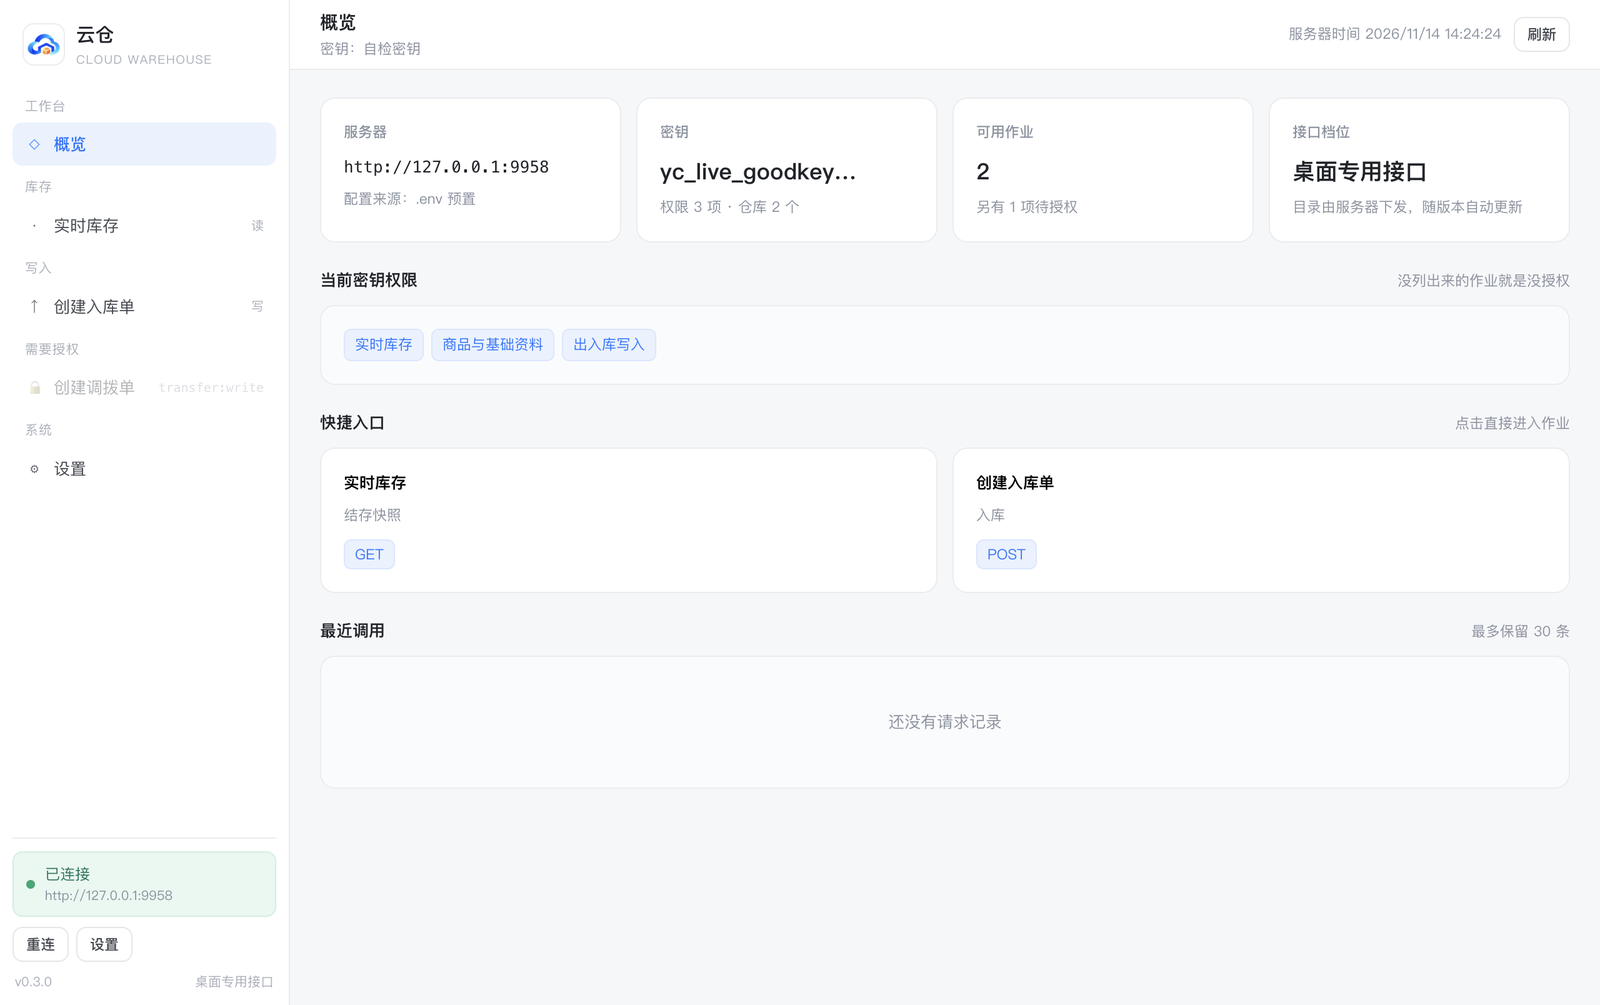
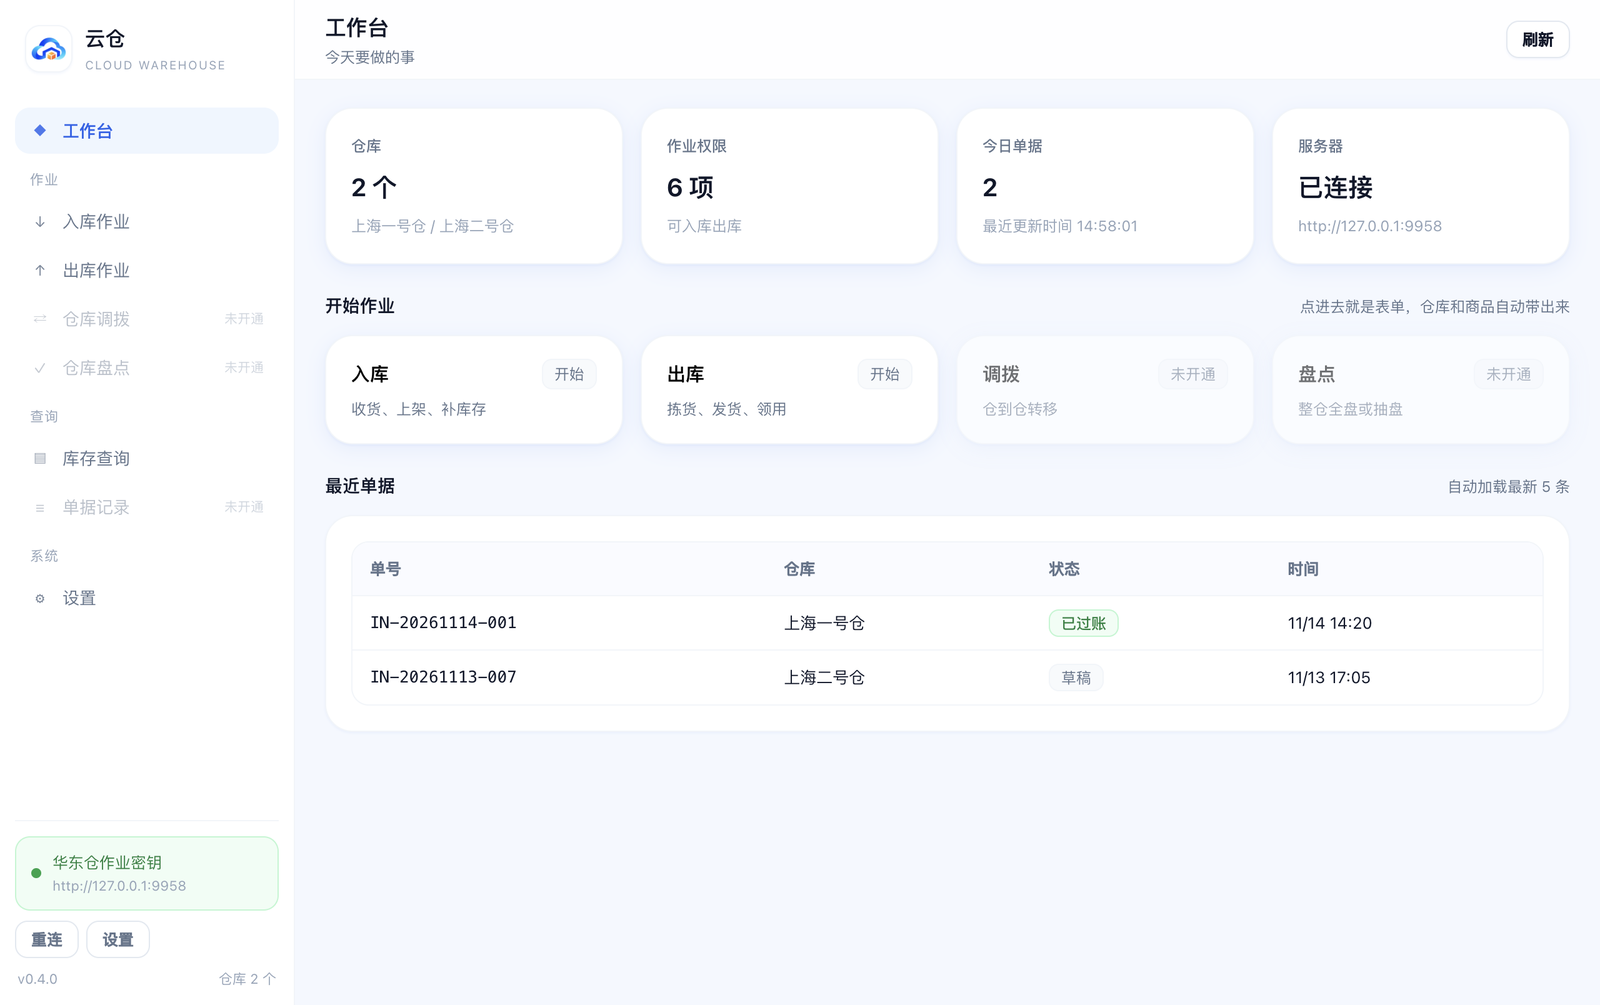
1

diff --git a/desktop.html b/desktop.html
@@ -5,7 +5,7 @@
   <meta name="viewport" content="width=device-width, initial-scale=1.0" />
 
   <title>桌面客户端 · 云仓 YUNCANG</title>
-  <meta name="description" content="云仓桌面客户端（Windows）：首次打开填服务器地址与 API 密钥，之后直接进入作业界面；作业范围由密钥权限决定。内置密钥失效引导、设置页换地址换密钥、CSV 导出与彻底卸载。v0.3.0 安装包 77.6 MB，无需额外运行环境。" />
+  <meta name="description" content="云仓桌面客户端（Windows）：装好填一次服务器地址与密钥，之后打开就是工作台——入库、出库、调拨、盘点、库存查询、单据记录，跟 Web 端同一套蓝白界面。v0.4.0 安装包 77.7 MB，自带运行环境。" />
   <meta name="keywords" content="云仓客户端,桌面客户端,Windows,库存管理,WMS,API 密钥,离线作业,云仓下载" />
   <meta name="author" content="小岳 (xiao yue)" />
   <link rel="canonical" href="https://yuejiaxinabc.github.io/cloudwarehouse-index/desktop.html" />
@@ -33,8 +33,9 @@
       <nav class="main-nav" aria-label="主导航">
         <a href="index.html">首页</a>
         <a href="features.html">产品功能</a>
-        <a href="install.html">部署安装</a>
         <a href="desktop.html" class="active" aria-current="page">桌面客户端</a>
+        <a href="install.html">部署安装</a>
+        <a href="pricing.html">部署服务</a>
         <a href="releases.html">版本发布</a>
         <a href="changelog.html">更新日志</a>
         <a href="security.html">安全日志</a>
@@ -59,8 +60,9 @@
       <ul>
         <li><a href="index.html">首页</a></li>
         <li><a href="features.html">产品功能</a></li>
-        <li><a href="install.html">部署安装</a></li>
         <li><a href="desktop.html" class="active" aria-current="page">桌面客户端</a></li>
+        <li><a href="install.html">部署安装</a></li>
+        <li><a href="pricing.html">部署服务</a></li>
         <li><a href="releases.html">版本发布</a></li>
         <li><a href="changelog.html">更新日志</a></li>
         <li><a href="security.html">安全日志</a></li>
@@ -77,7 +79,7 @@
     <section class="hero">
       <div class="container hero-grid">
         <div>
-          <span class="hero-badge"><span class="dot"></span>Windows 桌面端 · v0.3.0</span>
+          <span class="hero-badge"><span class="dot"></span>Windows 桌面端 · v0.4.0</span>
           <h1 class="hero-title">把云仓<br />装进桌面</h1>
           <p class="hero-lead">
             第一次打开填 <strong>服务器地址</strong> 与 <strong>API 密钥</strong>，之后双击图标直接进作业界面。
@@ -85,13 +87,13 @@
             各看各的。
           </p>
           <div class="hero-cta">
-            <a class="btn btn-primary btn-lg" href="https://updata-1307293667.cos.ap-beijing.myqcloud.com/desktop/setup/yuncang-0.3.0-x64.exe">
+            <a class="btn btn-primary btn-lg" href="https://updata-1307293667.cos.ap-beijing.myqcloud.com/desktop/setup/yuncang-0.4.0-x64.exe">
               下载 Windows 安装包
             </a>
             <a class="btn btn-ghost btn-lg" href="#features">看看能做什么</a>
           </div>
           <p class="hero-note">
-            77.6 MB · Windows 10 1809 及以上（x64）· 自带运行环境，不用装 Node / 数据库 / 浏览器插件
+            77.7 MB · Windows 10 1809 及以上（x64）· 自带运行环境，不用装 Node / 数据库 / 浏览器插件
           </p>
         </div>
 
@@ -108,15 +110,15 @@
       <div class="container">
         <div class="section-head center">
           <h2>界面</h2>
-          <p class="desc">蓝白配色，跟 Web 端同一套观感；左栏按你拿到的权限生成作业菜单，没有权限的灰着并注明缺哪一项。</p>
+          <p class="desc">蓝白配色，跟 Web 端同一套观感；左栏按你拿到的权限生成作业菜单，没开通的显示「未开通」，不会让你点了才报错。</p>
         </div>
 
         <div class="shot-grid">
           <figure class="shot-card">
             <div class="shot-frame">
-              <img src="assets/img/desktop/setup.png" alt="首次启动配置服务器地址与密钥" loading="lazy" />
+              <img src="assets/img/desktop/inbound.png" alt="入库作业：仓库和商品自动带出" loading="lazy" />
             </div>
-            <figcaption><strong>第一次打开</strong>填地址与密钥，测试通过后写进本机，以后不再问。</figcaption>
+            <figcaption><strong>入库作业</strong>仓库、类型自动带出，商品边打边搜，勾「直接入账」即过账。</figcaption>
           </figure>
           <figure class="shot-card">
             <div class="shot-frame">
@@ -133,29 +135,29 @@
       <div class="container">
         <div class="section-head">
           <h2>桌面端做什么</h2>
-          <p class="desc">它不是把网页塞进一个壳子：作业目录由服务端下发，参数表单按接口定义生成，写单据自带幂等键。</p>
+          <p class="desc">跟 Web 端同一套蓝白界面：进页面就是业务表单，仓库、商品、可用量自动带出来，不用记任何接口。</p>
         </div>
 
         <div class="grid grid-3 feature-grid">
           <div class="card card-hover">
-            <h3>配一次，之后不用管</h3>
-            <p>地址与密钥保存在本机，密钥用 Windows DPAPI（safeStorage）加密，只有当前系统账号能解开；换账号或重装后会提示重新填写，不会静默失败。</p>
+            <h3>打开就能干活</h3>
+            <p>服务器地址与密钥只填一次，用 Windows DPAPI 加密保存；之后双击图标直接进工作台，仓库清单自动加载。</p>
           </div>
           <div class="card card-hover">
-            <h3>作业范围跟着密钥走</h3>
-            <p>密钥带哪些 scope，侧栏就有哪些作业；限于某些仓库的密钥，查询自动收敛，越界写入直接被服务端拒绝。</p>
+            <h3>能做什么由权限决定</h3>
+            <p>入库、出库、调拨、盘点按这把密钥的权限出现；没开通的作业在左栏灰着，不会让你点了才报错。</p>
           </div>
           <div class="card card-hover">
-            <h3>密钥失效会告诉你</h3>
+            <h3>密钥失效会说清楚</h3>
             <p>任何一次请求返回 401，顶部弹「密钥已失效」并自动跳到设置页——地址已经填好，贴一把新密钥保存即恢复。</p>
           </div>
           <div class="card card-hover">
-            <h3>写单据不重复</h3>
-            <p>入库、出库、调拨、盘点自动带 Idempotency-Key，网络抖动重试不会重复建单；同一个 key 换请求体会被服务端拦下。</p>
+            <h3>重试不会重复建单</h3>
+            <p>提交时自带请求幂等标识，网络抖一下重试也不会多建一张单；同一批数据重复提交会被服务端拦下。</p>
           </div>
           <div class="card card-hover">
-            <h3>结果能带走</h3>
-            <p>查询结果直接出表格，可导出 CSV（带 BOM，Excel 打开不乱码），也能展开看原始响应，方便跟后台对数据。</p>
+            <h3>库存随时能查</h3>
+            <p>库存查询按仓库和商品筛，实时看结存 / 锁定 / 可用；单据记录按类型翻页，入库出库调拨盘点都在一处。</p>
           </div>
           <div class="card card-hover">
             <h3>卸载得干净</h3>
@@ -176,10 +178,10 @@
         <div class="dl-panel">
           <div class="dl-panel-head">
             <div>
-              <div class="dl-title">云仓 <span class="dl-ver">v0.3.0</span></div>
-              <div class="dl-meta">Windows x64 · 77.6 MB · 安装包未签名，首次运行若被 SmartScreen 拦下，点「更多信息 → 仍要运行」</div>
+              <div class="dl-title">云仓 <span class="dl-ver">v0.4.0</span></div>
+              <div class="dl-meta">Windows x64 · 77.7 MB · 安装包未签名，首次运行若被 SmartScreen 拦下，点「更多信息 → 仍要运行」</div>
             </div>
-            <a class="btn btn-primary" href="https://updata-1307293667.cos.ap-beijing.myqcloud.com/desktop/setup/yuncang-0.3.0-x64.exe">下载</a>
+            <a class="btn btn-primary" href="https://updata-1307293667.cos.ap-beijing.myqcloud.com/desktop/setup/yuncang-0.4.0-x64.exe">下载</a>
           </div>
           <ol class="steps">
             <li><strong>下载并双击</strong> <span>选安装目录（默认装到当前用户，不需要管理员权限）</span></li>
@@ -226,11 +228,11 @@
         <div class="faq">
           <details>
             <summary>提示「密钥已失效」怎么办？</summary>
-            <p>说明服务端返回了 401：密钥被停用、过期、来源 IP 不在白名单，或所属账号被禁用。打开「设置」，地址保持不变，贴一把新密钥点「保存并连接」即可，不用重装、不用重启。</p>
+            <p>说明服务端拒绝了这把密钥：可能被停用、过期、来源 IP 不在白名单，或所属账号被禁用。打开「设置」，地址保持不变，贴一把新密钥点「保存并连接」即可，不用重装、不用重启。</p>
           </details>
           <details>
             <summary>菜单里有些作业是灰的</summary>
-            <p>那是没授权的作业，灰着的项上写着缺哪个 scope（例如 <code>transfer:write</code>）。让管理员在后台给这把密钥加对应权限，重连即出现。</p>
+            <p>那是没开通的作业，左栏显示「未开通」。让管理员在云仓后台给这把密钥加上对应权限（例如调拨），重连后就会出现。</p>
           </details>
           <details>
             <summary>连不上内网地址</summary>
@@ -242,7 +244,7 @@
           </details>
           <details>
             <summary>为什么不需要装 Node 或数据库？</summary>
-            <p>客户端本体是 Electron，Chromium 与 Node 运行时都打包在安装包里；它只通过 HTTP 调云仓的开放接口，本机不存业务数据。</p>
+            <p>客户端把 Chromium 与运行时都打包进了安装包，只负责界面与请求；商品、库存、单据全在你的云仓服务器上，本机不存业务数据。</p>
           </details>
         </div>
       </div>
@@ -254,7 +256,7 @@
         <h2>把云仓放到仓库那台电脑上</h2>
         <p class="desc">双击装完就能用，作业范围由你发的密钥决定。</p>
         <div class="hero-cta">
-          <a class="btn btn-primary btn-lg" href="https://updata-1307293667.cos.ap-beijing.myqcloud.com/desktop/setup/yuncang-0.3.0-x64.exe">下载 Windows 安装包</a>
+          <a class="btn btn-primary btn-lg" href="https://updata-1307293667.cos.ap-beijing.myqcloud.com/desktop/setup/yuncang-0.4.0-x64.exe">下载 Windows 安装包</a>
           <a class="btn btn-ghost btn-lg" href="install.html">部署云仓服务端</a>
         </div>
       </div>
@@ -282,6 +284,7 @@
             <li><a href="index.html">首页</a></li>
             <li><a href="features.html">产品功能</a></li>
             <li><a href="desktop.html">桌面客户端</a></li>
+            <li><a href="install.html">部署安装</a></li>
             <li><a href="pricing.html">部署服务</a></li>
             <li><a href="releases.html">版本发布</a></li>
             <li><a href="changelog.html">更新日志</a></li>

diff --git a/index.html b/index.html
@@ -37,8 +37,9 @@
       <nav class="main-nav" aria-label="主导航">
         <a href="index.html" class="active" aria-current="page">首页</a>
         <a href="features.html">产品功能</a>
-        <a href="install.html">部署安装</a>
         <a href="desktop.html">桌面客户端</a>
+        <a href="install.html">部署安装</a>
+        <a href="pricing.html">部署服务</a>
         <a href="releases.html">版本发布</a>
         <a href="changelog.html">更新日志</a>
         <a href="security.html">安全日志</a>
@@ -64,8 +65,9 @@
       <ul>
         <li><a href="index.html" class="active" aria-current="page">首页</a></li>
         <li><a href="features.html">产品功能</a></li>
-        <li><a href="install.html">部署安装</a></li>
         <li><a href="desktop.html">桌面客户端</a></li>
+        <li><a href="install.html">部署安装</a></li>
+        <li><a href="pricing.html">部署服务</a></li>
         <li><a href="releases.html">版本发布</a></li>
         <li><a href="changelog.html">更新日志</a></li>
         <li><a href="security.html">安全日志</a></li>
@@ -554,6 +556,8 @@
           <ul>
             <li><a href="index.html">首页</a></li>
             <li><a href="features.html">产品功能</a></li>
+            <li><a href="desktop.html">桌面客户端</a></li>
+            <li><a href="install.html">部署安装</a></li>
             <li><a href="pricing.html">部署服务</a></li>
             <li><a href="releases.html">版本发布</a></li>
             <li><a href="changelog.html">更新日志</a></li>
@@ -565,8 +569,6 @@
           <h4>项目文档</h4>
           <ul>
             <li><a href="https://yc.yuejiaxin.ln.cn/" target="_blank" rel="noopener">在线演示 ↗</a></li>
-            <li><a href="install.html">部署安装</a></li>
-        <li><a href="desktop.html">桌面客户端</a></li>
             <li><a href="https://github.com/yuejiaxinabc/cloud-warehouse/blob/main/README.md" target="_blank" rel="noopener">README</a></li>
             <li><a href="https://github.com/yuejiaxinabc/cloud-warehouse/blob/main/docs/CHANGELOG.md" target="_blank" rel="noopener">CHANGELOG</a></li>
             <li><a href="https://github.com/yuejiaxinabc/cloud-warehouse/blob/main/docs/SECURITY.md" target="_blank" rel="noopener">SECURITY</a></li>

diff --git a/install.html b/install.html
@@ -27,8 +27,9 @@
       <nav class="main-nav" aria-label="主导航">
         <a href="index.html">首页</a>
         <a href="features.html">产品功能</a>
-        <a href="install.html" class="active" aria-current="page">部署安装</a>
         <a href="desktop.html">桌面客户端</a>
+        <a href="install.html" class="active" aria-current="page">部署安装</a>
+        <a href="pricing.html">部署服务</a>
         <a href="releases.html">版本发布</a>
         <a href="changelog.html">更新日志</a>
         <a href="security.html">安全日志</a>
@@ -53,8 +54,9 @@
       <ul>
         <li><a href="index.html">首页</a></li>
         <li><a href="features.html">产品功能</a></li>
-        <li><a href="install.html">部署安装</a></li>
         <li><a href="desktop.html">桌面客户端</a></li>
+        <li><a href="install.html" class="active" aria-current="page">部署安装</a></li>
+        <li><a href="pricing.html">部署服务</a></li>
         <li><a href="releases.html">版本发布</a></li>
         <li><a href="changelog.html">更新日志</a></li>
         <li><a href="security.html">安全日志</a></li>
@@ -340,6 +342,7 @@
             <li><a href="index.html">首页</a></li>
             <li><a href="features.html">产品功能</a></li>
             <li><a href="desktop.html">桌面客户端</a></li>
+            <li><a href="install.html">部署安装</a></li>
             <li><a href="pricing.html">部署服务</a></li>
             <li><a href="releases.html">版本发布</a></li>
             <li><a href="changelog.html">更新日志</a></li>

diff --git a/changelog.html b/changelog.html
@@ -33,6 +33,7 @@
         <a href="index.html">首页</a>
         <a href="features.html">产品功能</a>
         <a href="desktop.html">桌面客户端</a>
+        <a href="install.html">部署安装</a>
         <a href="pricing.html">部署服务</a>
         <a href="releases.html">版本发布</a>
         <a href="changelog.html" class="active" aria-current="page">更新日志</a>
@@ -59,6 +60,7 @@
         <li><a href="index.html">首页</a></li>
         <li><a href="features.html">产品功能</a></li>
         <li><a href="desktop.html">桌面客户端</a></li>
+        <li><a href="install.html">部署安装</a></li>
         <li><a href="pricing.html">部署服务</a></li>
         <li><a href="releases.html">版本发布</a></li>
         <li><a href="changelog.html" class="active" aria-current="page">更新日志</a></li>
@@ -397,6 +399,7 @@
             <li><a href="index.html">首页</a></li>
             <li><a href="features.html">产品功能</a></li>
             <li><a href="desktop.html">桌面客户端</a></li>
+            <li><a href="install.html">部署安装</a></li>
             <li><a href="pricing.html">部署服务</a></li>
             <li><a href="releases.html">版本发布</a></li>
             <li><a href="changelog.html">更新日志</a></li>

diff --git a/features.html b/features.html
@@ -33,6 +33,7 @@
         <a href="index.html">首页</a>
         <a href="features.html" class="active" aria-current="page">产品功能</a>
         <a href="desktop.html">桌面客户端</a>
+        <a href="install.html">部署安装</a>
         <a href="pricing.html">部署服务</a>
         <a href="releases.html">版本发布</a>
         <a href="changelog.html">更新日志</a>
@@ -59,6 +60,7 @@
         <li><a href="index.html">首页</a></li>
         <li><a href="features.html" class="active" aria-current="page">产品功能</a></li>
         <li><a href="desktop.html">桌面客户端</a></li>
+        <li><a href="install.html">部署安装</a></li>
         <li><a href="pricing.html">部署服务</a></li>
         <li><a href="releases.html">版本发布</a></li>
         <li><a href="changelog.html">更新日志</a></li>
@@ -390,6 +392,7 @@
             <li><a href="index.html">首页</a></li>
             <li><a href="features.html">产品功能</a></li>
             <li><a href="desktop.html">桌面客户端</a></li>
+            <li><a href="install.html">部署安装</a></li>
             <li><a href="pricing.html">部署服务</a></li>
             <li><a href="releases.html">版本发布</a></li>
             <li><a href="changelog.html">更新日志</a></li>

diff --git a/pricing.html b/pricing.html
@@ -33,6 +33,7 @@
         <a href="index.html">首页</a>
         <a href="features.html">产品功能</a>
         <a href="desktop.html">桌面客户端</a>
+        <a href="install.html">部署安装</a>
         <a href="pricing.html" class="active" aria-current="page">部署服务</a>
         <a href="releases.html">版本发布</a>
         <a href="changelog.html">更新日志</a>
@@ -59,6 +60,7 @@
         <li><a href="index.html">首页</a></li>
         <li><a href="features.html">产品功能</a></li>
         <li><a href="desktop.html">桌面客户端</a></li>
+        <li><a href="install.html">部署安装</a></li>
         <li><a href="pricing.html" class="active" aria-current="page">部署服务</a></li>
         <li><a href="releases.html">版本发布</a></li>
         <li><a href="changelog.html">更新日志</a></li>
@@ -261,6 +263,7 @@
             <li><a href="index.html">首页</a></li>
             <li><a href="features.html">产品功能</a></li>
             <li><a href="desktop.html">桌面客户端</a></li>
+            <li><a href="install.html">部署安装</a></li>
             <li><a href="pricing.html">部署服务</a></li>
             <li><a href="releases.html">版本发布</a></li>
             <li><a href="changelog.html">更新日志</a></li>

diff --git a/releases.html b/releases.html
@@ -33,6 +33,7 @@
         <a href="index.html">首页</a>
         <a href="features.html">产品功能</a>
         <a href="desktop.html">桌面客户端</a>
+        <a href="install.html">部署安装</a>
         <a href="pricing.html">部署服务</a>
         <a href="releases.html" class="active" aria-current="page">版本发布</a>
         <a href="changelog.html">更新日志</a>
@@ -59,6 +60,7 @@
         <li><a href="index.html">首页</a></li>
         <li><a href="features.html">产品功能</a></li>
         <li><a href="desktop.html">桌面客户端</a></li>
+        <li><a href="install.html">部署安装</a></li>
         <li><a href="pricing.html">部署服务</a></li>
         <li><a href="releases.html" class="active" aria-current="page">版本发布</a></li>
         <li><a href="changelog.html">更新日志</a></li>
@@ -431,6 +433,7 @@
             <li><a href="index.html">首页</a></li>
             <li><a href="features.html">产品功能</a></li>
             <li><a href="desktop.html">桌面客户端</a></li>
+            <li><a href="install.html">部署安装</a></li>
             <li><a href="pricing.html">部署服务</a></li>
             <li><a href="releases.html">版本发布</a></li>
             <li><a href="changelog.html">更新日志</a></li>

diff --git a/security.html b/security.html
@@ -33,6 +33,7 @@
         <a href="index.html">首页</a>
         <a href="features.html">产品功能</a>
         <a href="desktop.html">桌面客户端</a>
+        <a href="install.html">部署安装</a>
         <a href="pricing.html">部署服务</a>
         <a href="releases.html">版本发布</a>
         <a href="changelog.html">更新日志</a>
@@ -59,6 +60,7 @@
         <li><a href="index.html">首页</a></li>
         <li><a href="features.html">产品功能</a></li>
         <li><a href="desktop.html">桌面客户端</a></li>
+        <li><a href="install.html">部署安装</a></li>
         <li><a href="pricing.html">部署服务</a></li>
         <li><a href="releases.html">版本发布</a></li>
         <li><a href="changelog.html">更新日志</a></li>
@@ -318,6 +320,7 @@
             <li><a href="index.html">首页</a></li>
             <li><a href="features.html">产品功能</a></li>
             <li><a href="desktop.html">桌面客户端</a></li>
+            <li><a href="install.html">部署安装</a></li>
             <li><a href="pricing.html">部署服务</a></li>
             <li><a href="releases.html">版本发布</a></li>
             <li><a href="changelog.html">更新日志</a></li>

diff --git a/404.html b/404.html
@@ -18,10 +18,14 @@
         <span class="brand-name">云仓 <span class="brand-sub">YUNCANG</span></span>
       </a>
       <nav class="main-nav" aria-label="主导航">
-        <a href="index.html">返回首页</a>
+        <a href="index.html">首页</a>
         <a href="features.html">产品功能</a>
         <a href="desktop.html">桌面客户端</a>
+        <a href="install.html">部署安装</a>
         <a href="pricing.html">部署服务</a>
+        <a href="releases.html">版本发布</a>
+        <a href="changelog.html">更新日志</a>
+        <a href="security.html">安全日志</a>
       </nav>
     </div>
   </header>
